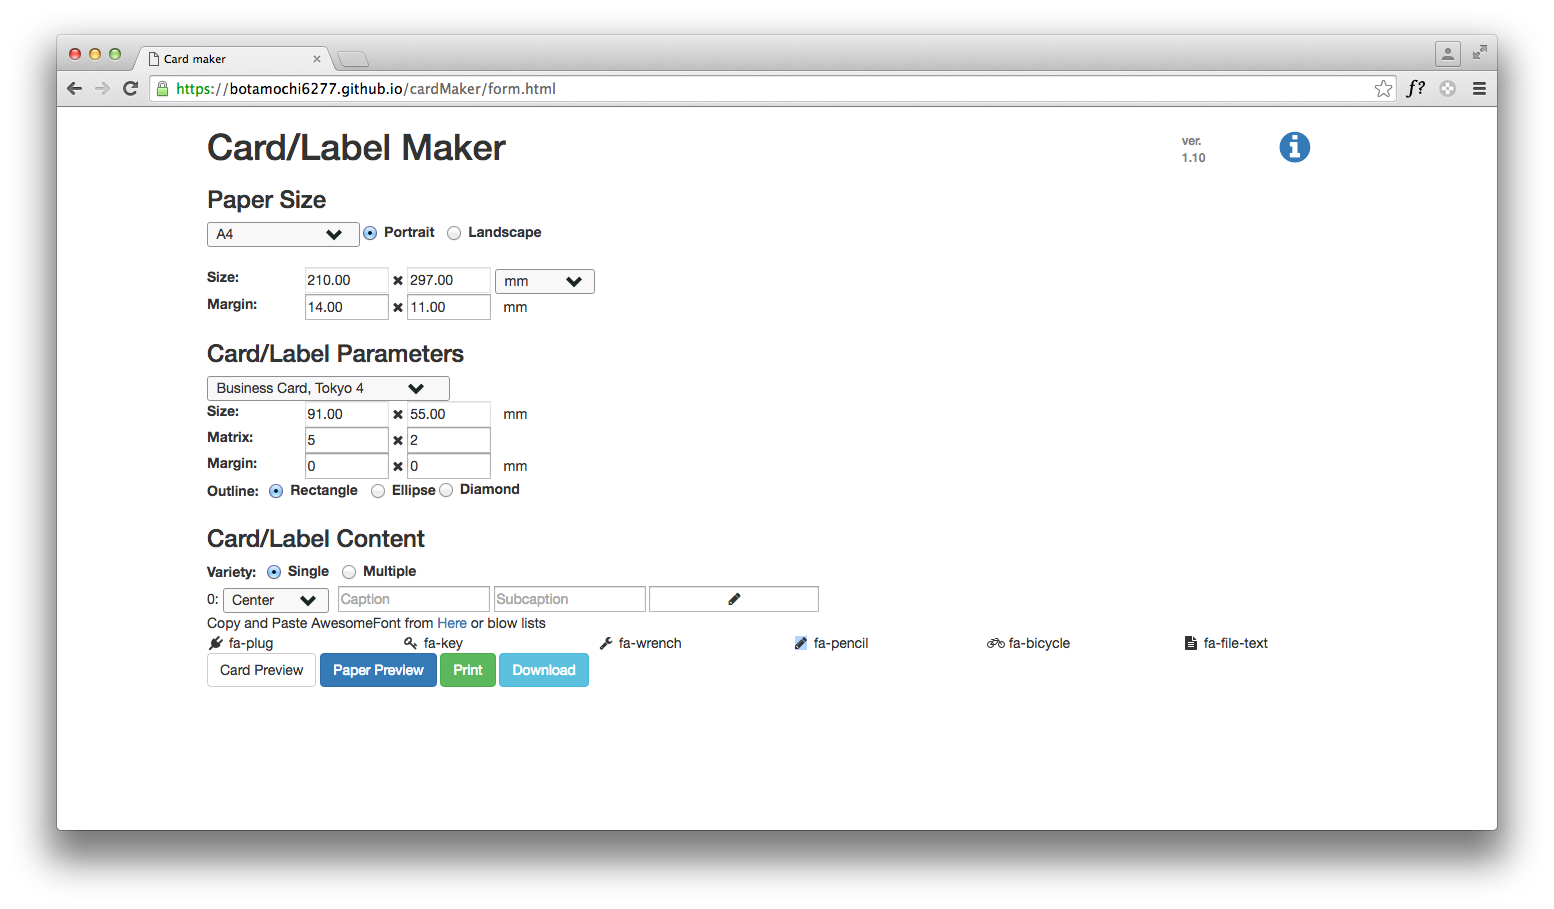
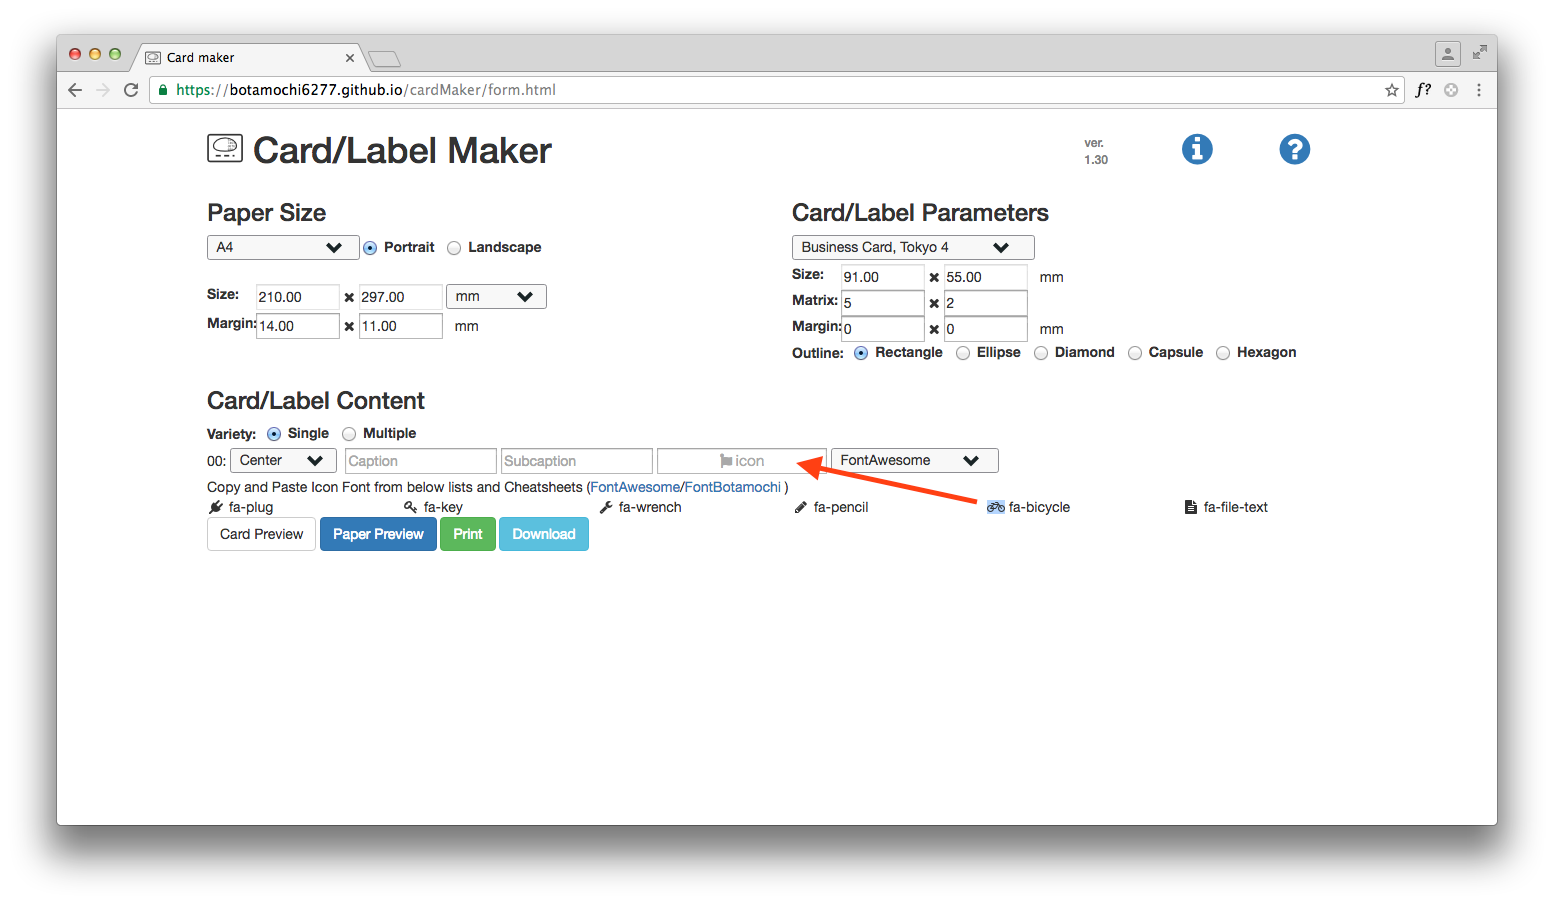
update readme of cardmaker

diff --git a/cardMaker/README.md b/cardMaker/README.md
@@ -1,6 +1,8 @@
 # cardMaker
 Card/Label Maker in Javascript
 
+Operating environment: Google Chrome.
+
 ### Usage
 1. Access <https://botamochi6277.github.io/cardMaker/form.html>
 2. Fill forms: paper size, card/label parameters and card/label contents.
@@ -9,5 +11,25 @@ Card/Label Maker in Javascript
 5. Print this page with no margin.
 6. You can be back the form page by clicking a paper image.
 
-![1](./img/copy-icon.png)
-You can copy and paste icons.
+![copy-icon](./img/copy-icon.png)
+  You can copy and paste **icons**.
+
+![card-preview](./img/card-preview.png)
+  **Card Preview** button shows card design.
+
+![paper-preview](./img/paper-preview.png)
+  **Paper Preview** button shows paper design.
+
+![with-caption](./img/with-caption.png)
+  You can add  **Caption**.
+![ellipse](./img/ellipse.png)
+  **Outline** radio changes card shape.
+
+![left-layout](./img/left-layout.png)
+  **Layout** select changes placements of contents.
+
+![multi](./img/hex-multi.png)
+  **Multiple** radio allows a paper to have various cards.
+
+![print](./img/print.png)
+  **Print** button hides everything except the paper. Please print (Cmd+P/&#x2318;+P) this page with no margin.

diff --git a/fontBotamochi/README.md b/fontBotamochi/README.md
@@ -1,0 +1,9 @@
+# FontBotamochi
+
+Icon font generated by [Icomoon](https://icomoon.io).
+
+
+
+#### Coming soon
+* training wear
+* scarf
